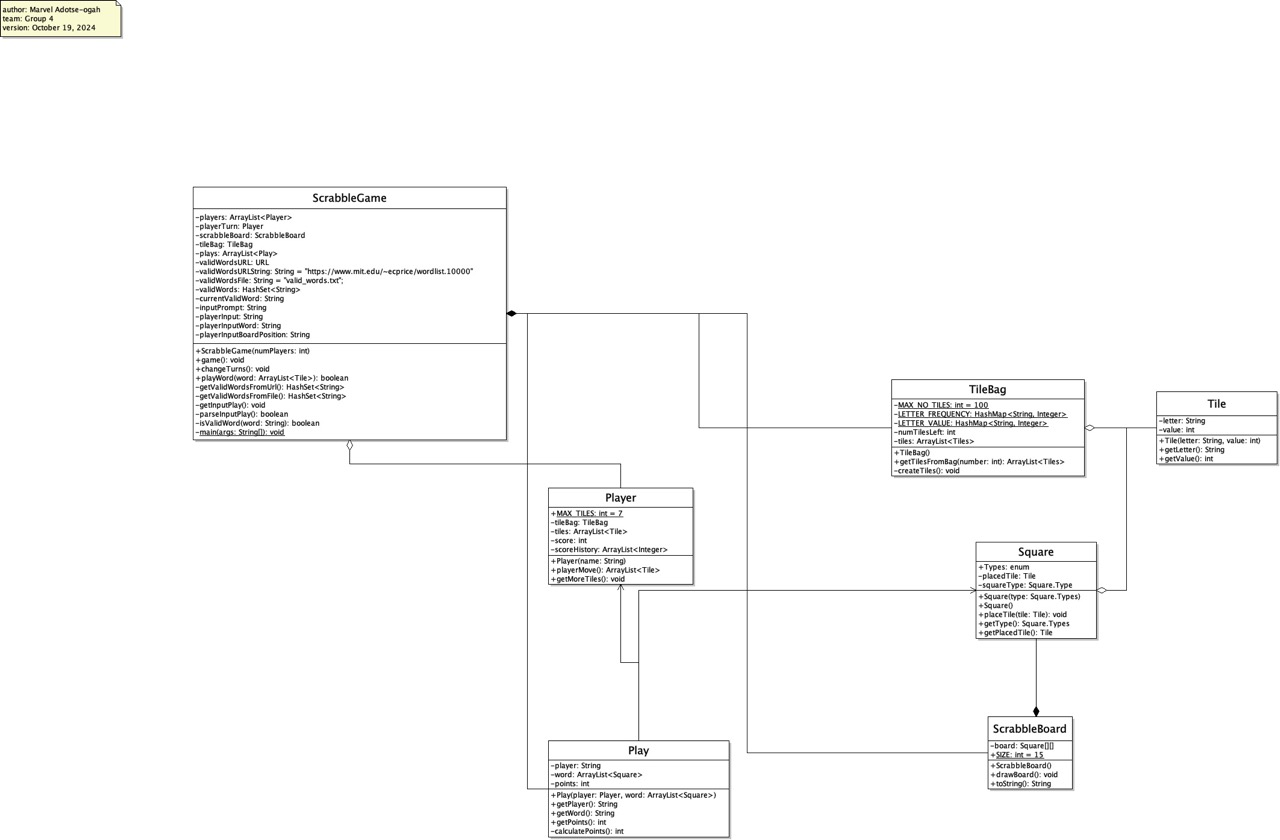
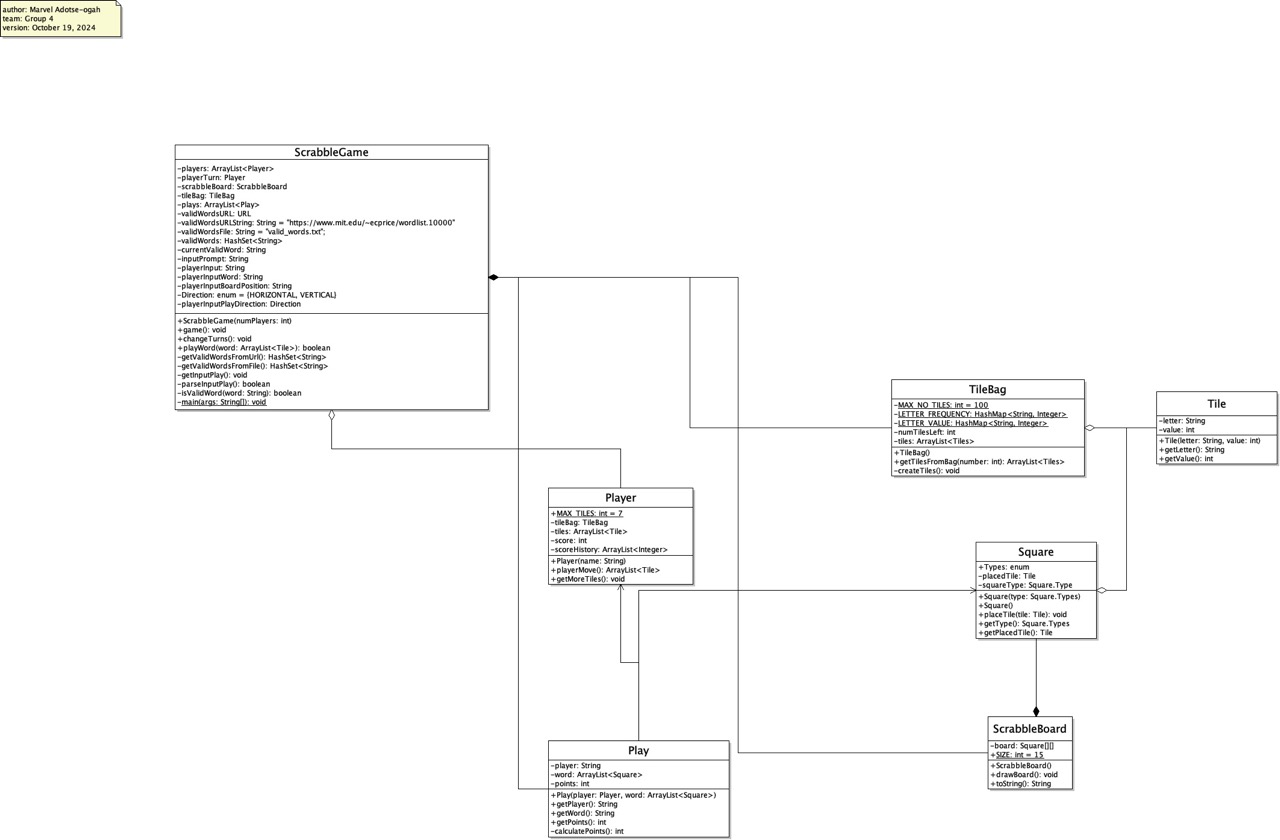
Updated the project_UML violet and image files

diff --git a/src/ScrabbleGame.java b/src/ScrabbleGame.java
@@ -43,9 +43,9 @@ public class ScrabbleGame {
     /** Board Position to place the played word*/
     private String playerInputBoardPosition;
     /** Possible play directions*/
-    private enum Directions {HORIZONTAL, VERTICAL}
+    private enum Direction {HORIZONTAL, VERTICAL}
     /** Play direction of a played word either horizontal or vertical*/
-    private Directions playerInputPlayDirection;
+    private Direction playerInputPlayDirection;
 
     /**
      * Constructor for the ScrabbleGame class.
@@ -68,13 +68,13 @@ public class ScrabbleGame {
         currentValidWord = "";
         playerInputWord = "";
         playerInputBoardPosition = "";
-        playerInputPlayDirection = Directions.HORIZONTAL;
+        playerInputPlayDirection = Direction.HORIZONTAL;
 
         while (true) {
             getInputPlay();
             if (parseInputPlay()) {
                 if (isValidWord(playerInputWord)) {
-                    System.out.println(String.format("Word: %s | Position: %s | Direction: %s", playerInputWord, playerInputBoardPosition, playerInputPlayDirection.equals(Directions.HORIZONTAL)? "Horizontal":"Vertical"));
+                    System.out.println(String.format("Word: %s | Position: %s | Direction: %s", playerInputWord, playerInputBoardPosition, playerInputPlayDirection.equals(Direction.HORIZONTAL)? "Horizontal":"Vertical"));
                 } else {
                     System.out.println("Valid Word it is not.");
                 }
@@ -174,7 +174,7 @@ public class ScrabbleGame {
     }
 
     /**
-     * Parses through the user's input and checks for errors.
+     * Parses through the user's input and checks for errors. It updates the playerInputWord, playerInputBoardPosition, and playerInputPlayDirection fields.
      * @return Returns true if both word and board position parameters are valid. Returns false if board position is out of range.
      */
     private boolean parseInputPlay() {
@@ -187,35 +187,34 @@ public class ScrabbleGame {
         if (tokenizer.hasNext()) { // Checks that the play has a word
             _tempWord = tokenizer.next(); // This allows any type of input be it numbers or special characters. A String of characters
                                           // containing numbers or special characters will not be considered a valid word.
-            if (tokenizer.hasNext()) { // Checks that they play has coordinates
-                _tempPosition = tokenizer.next();
-                if (_tempPosition.length() != 2) { // Checks that the coordinates given are exactly 2 (e.g. ff)
+        } else return false;
+        if (tokenizer.hasNext()) { // Checks that they play has coordinates
+            _tempPosition = tokenizer.next();
+            if (_tempPosition.length() != 2) { // Checks that the coordinates given are exactly 2 (e.g. ff)
+                return false;
+            }
+            row = valueOf(_tempPosition.charAt(0));
+            col = valueOf(_tempPosition.charAt(1));
+            try {
+                if (!((Integer.parseInt(row, 16) > 0) && (Integer.parseInt(col, 16) > 0))) { // Checks that the converted number is within the range of 1 to 15 (0xF)
                     return false;
                 }
-                row = valueOf(_tempPosition.charAt(0));
-                col = valueOf(_tempPosition.charAt(1));
-                try {
-                    if (!((Integer.parseInt(row, 16) > 0) && (Integer.parseInt(col, 16) > 0))) { // Checks that the converted number is within the range of 1 to 15 (0xF)
-                        return false;
-                    }
-                    Integer.parseInt(row, 16); // Attempts to convert to Decimal and gives an error if unsuccessful
-                    Integer.parseInt(col, 16);
-                } catch (Exception e) {return false;} // Any issues with exceptions will result in the play made invalid
-
-                if (tokenizer.hasNext()) {
-                    _tempDirection = tokenizer.next().toLowerCase();
-                    String dir = valueOf(_tempDirection.charAt(0)); // First letter of the argument in the parameter for direction so v, vertical, and any word starting with v would work.
-                                                                    // A similar logic applies for h and horizontal
-                    if (dir.equals("h") || dir.equals("v")) {
-                        _tempDirection = dir;
-                    } else return false;
-                } else return false;
+                Integer.parseInt(row, 16); // Attempts to convert to Decimal and gives an error if unsuccessful
+                Integer.parseInt(col, 16);
+            } catch (Exception e) {return false;} // Any issues with exceptions will result in the play made invalid
+        } else return false;
+        if (tokenizer.hasNext()) {
+            _tempDirection = tokenizer.next().toLowerCase();
+            String dir = valueOf(_tempDirection.charAt(0)); // First letter of the argument in the parameter for direction so v, vertical, and any word starting with v would work.
+            // A similar logic applies for h and horizontal
+            if (dir.equals("h") || dir.equals("v")) {
+                _tempDirection = dir;
             } else return false;
         } else return false;
 
         playerInputWord = _tempWord.toLowerCase();
         playerInputBoardPosition = _tempPosition.toUpperCase();
-        playerInputPlayDirection = (_tempDirection.equals("h"))? Directions.HORIZONTAL : Directions.VERTICAL;
+        playerInputPlayDirection = (_tempDirection.equals("h"))? Direction.HORIZONTAL : Direction.VERTICAL;
         return true;
     }
 
